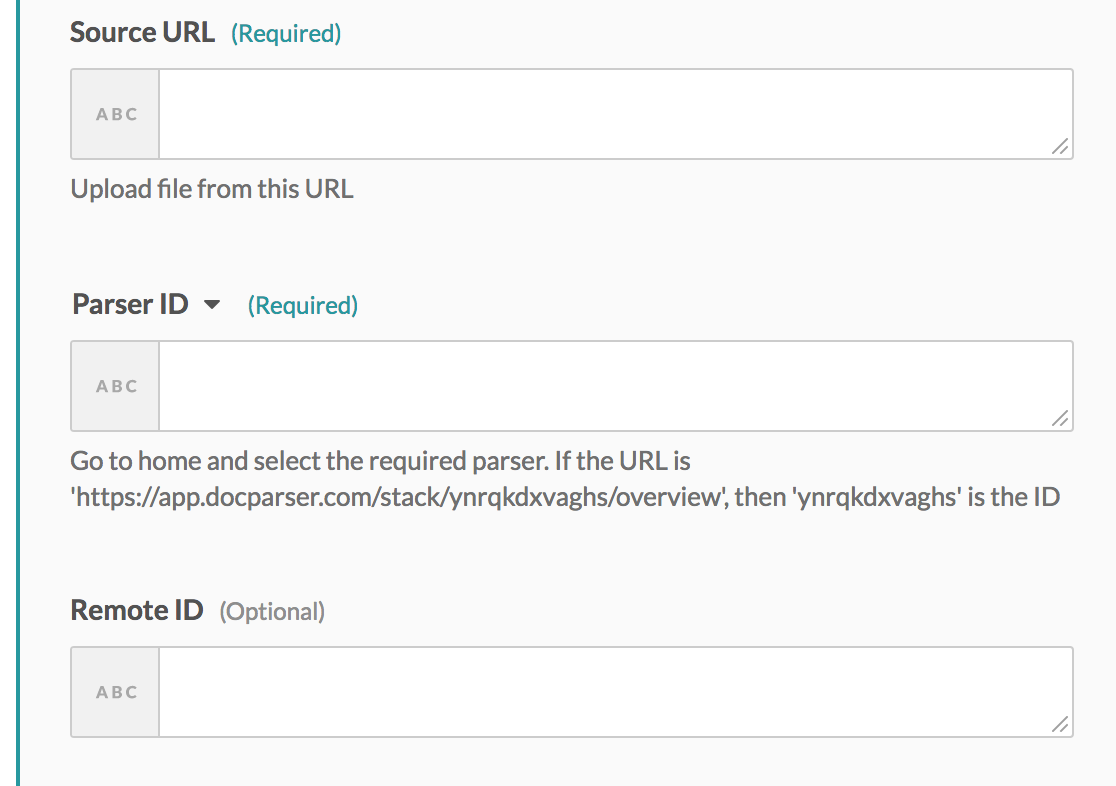
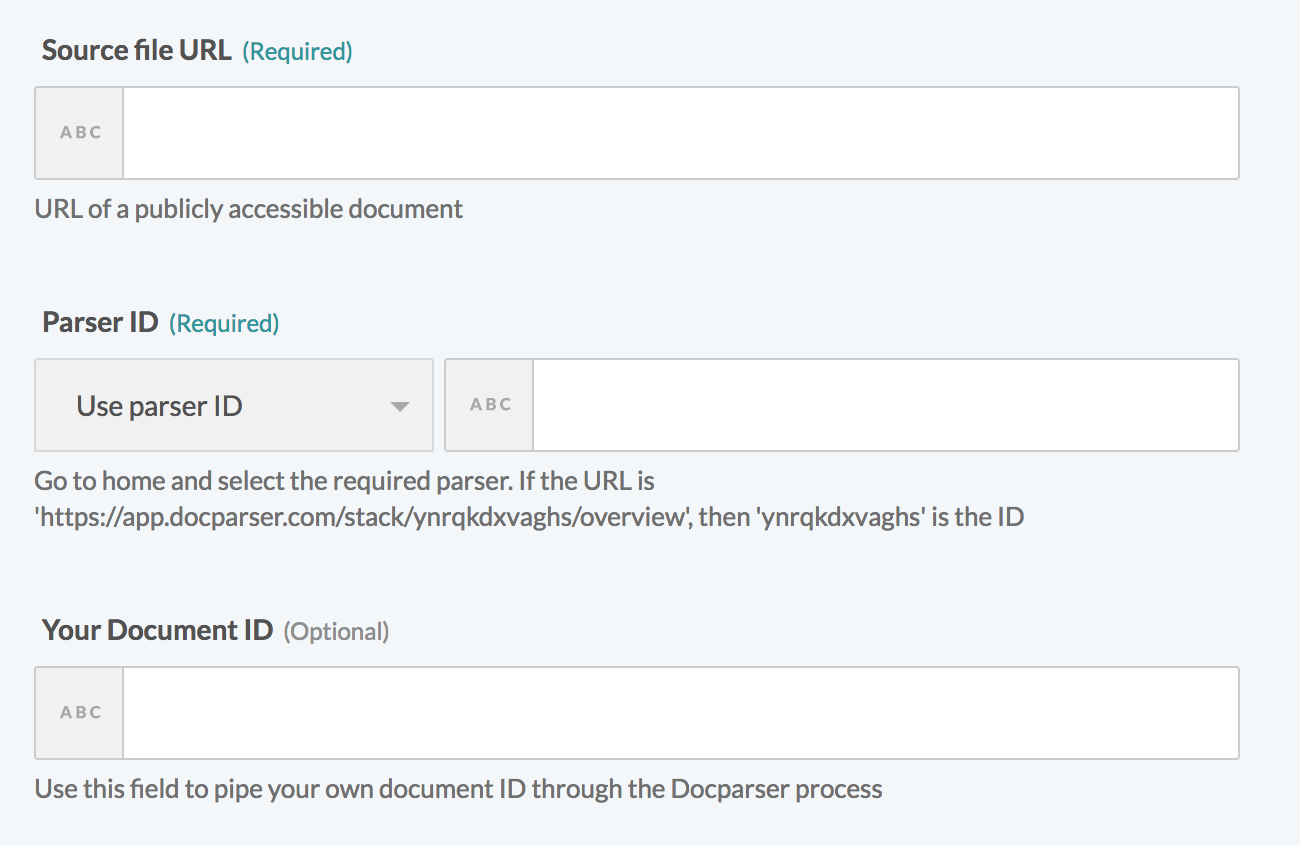
toggle update

diff --git a/developing-connectors/sdk/toggle-field.md b/developing-connectors/sdk/toggle-field.md
@@ -10,11 +10,11 @@ Hence, we introduced the parser pick list. This pick list is dynamically generat
 fetch_document_from_url: {
   input_fields: lambda do
     [
-      { 
-        name: "url", 
+      {
+        name: "url",
         label: "Source URL",
         hint: "Upload file from this URL",
-        optional: false 
+        optional: false
       },
       {
         name: "parser_id",
@@ -30,7 +30,7 @@ fetch_document_from_url: {
           type: :string,
           control_type: "text",
           optional: false,
-          toggle_hint: "Use custom value",
+          toggle_hint: "Use Parser ID",
           hint: "Go to home page and select the required parser. If the URL is 'https://app.docparser.com/stack/ynrqkdxvaghs/overview', then 'ynrqkdxvaghs' is the ID"
         }
       },
